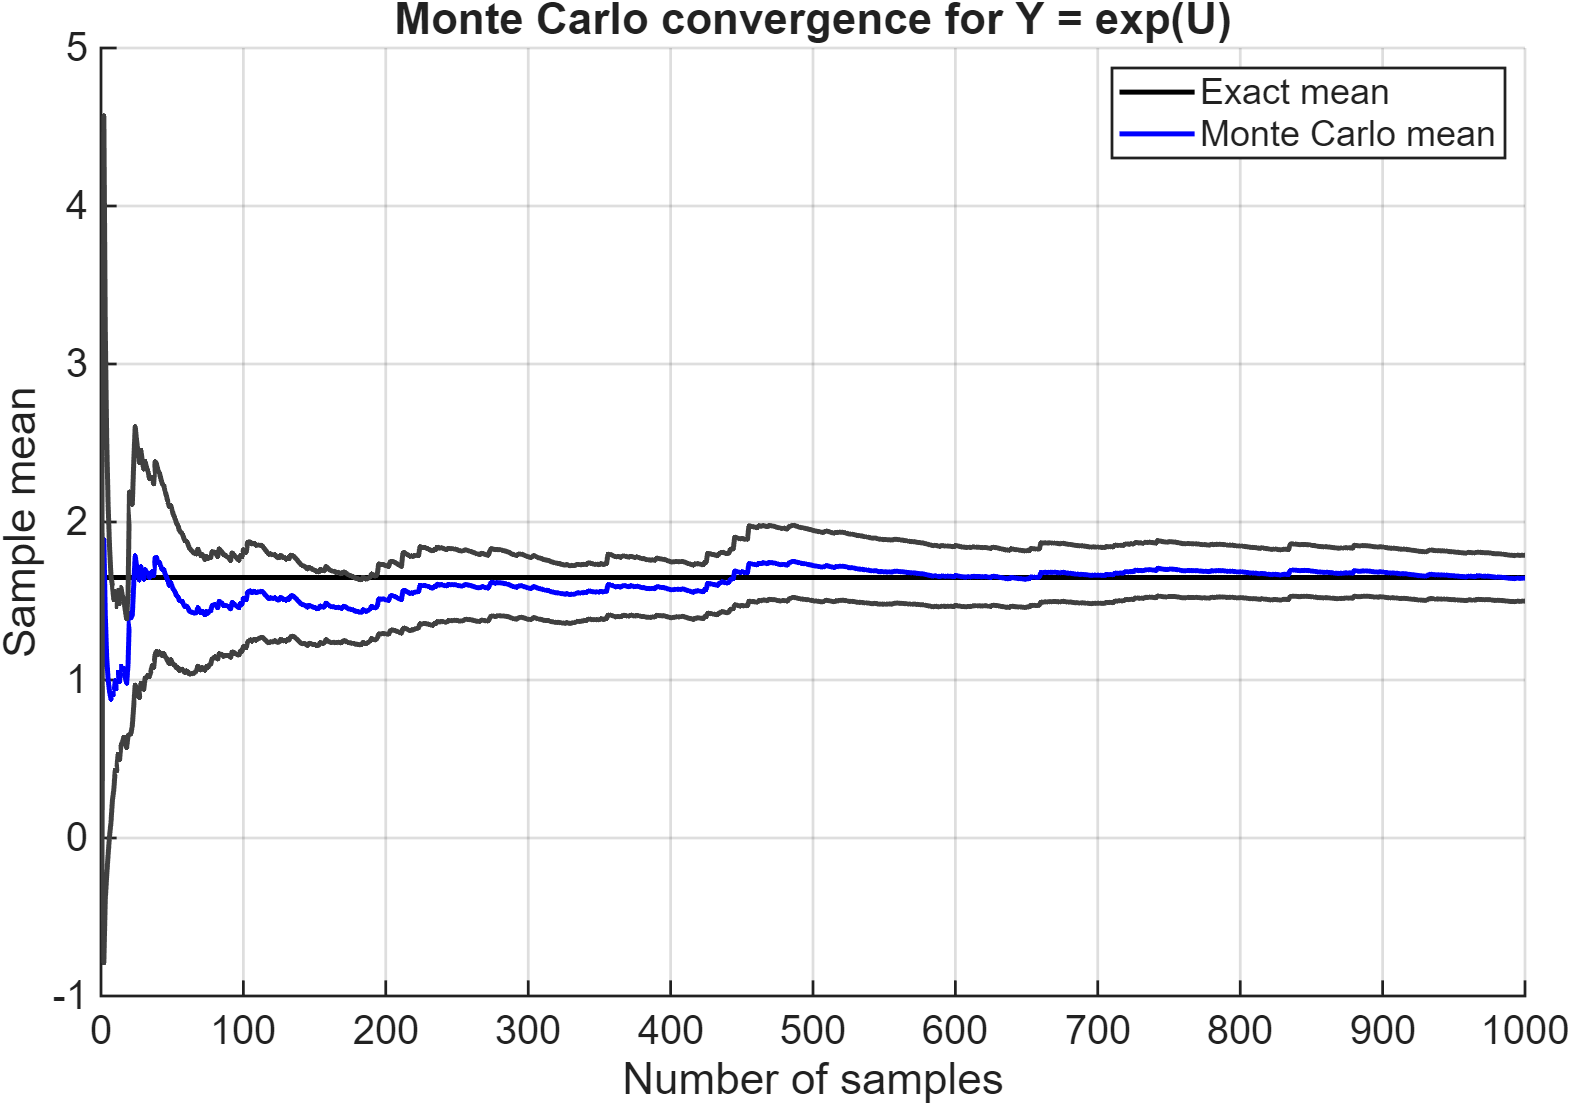
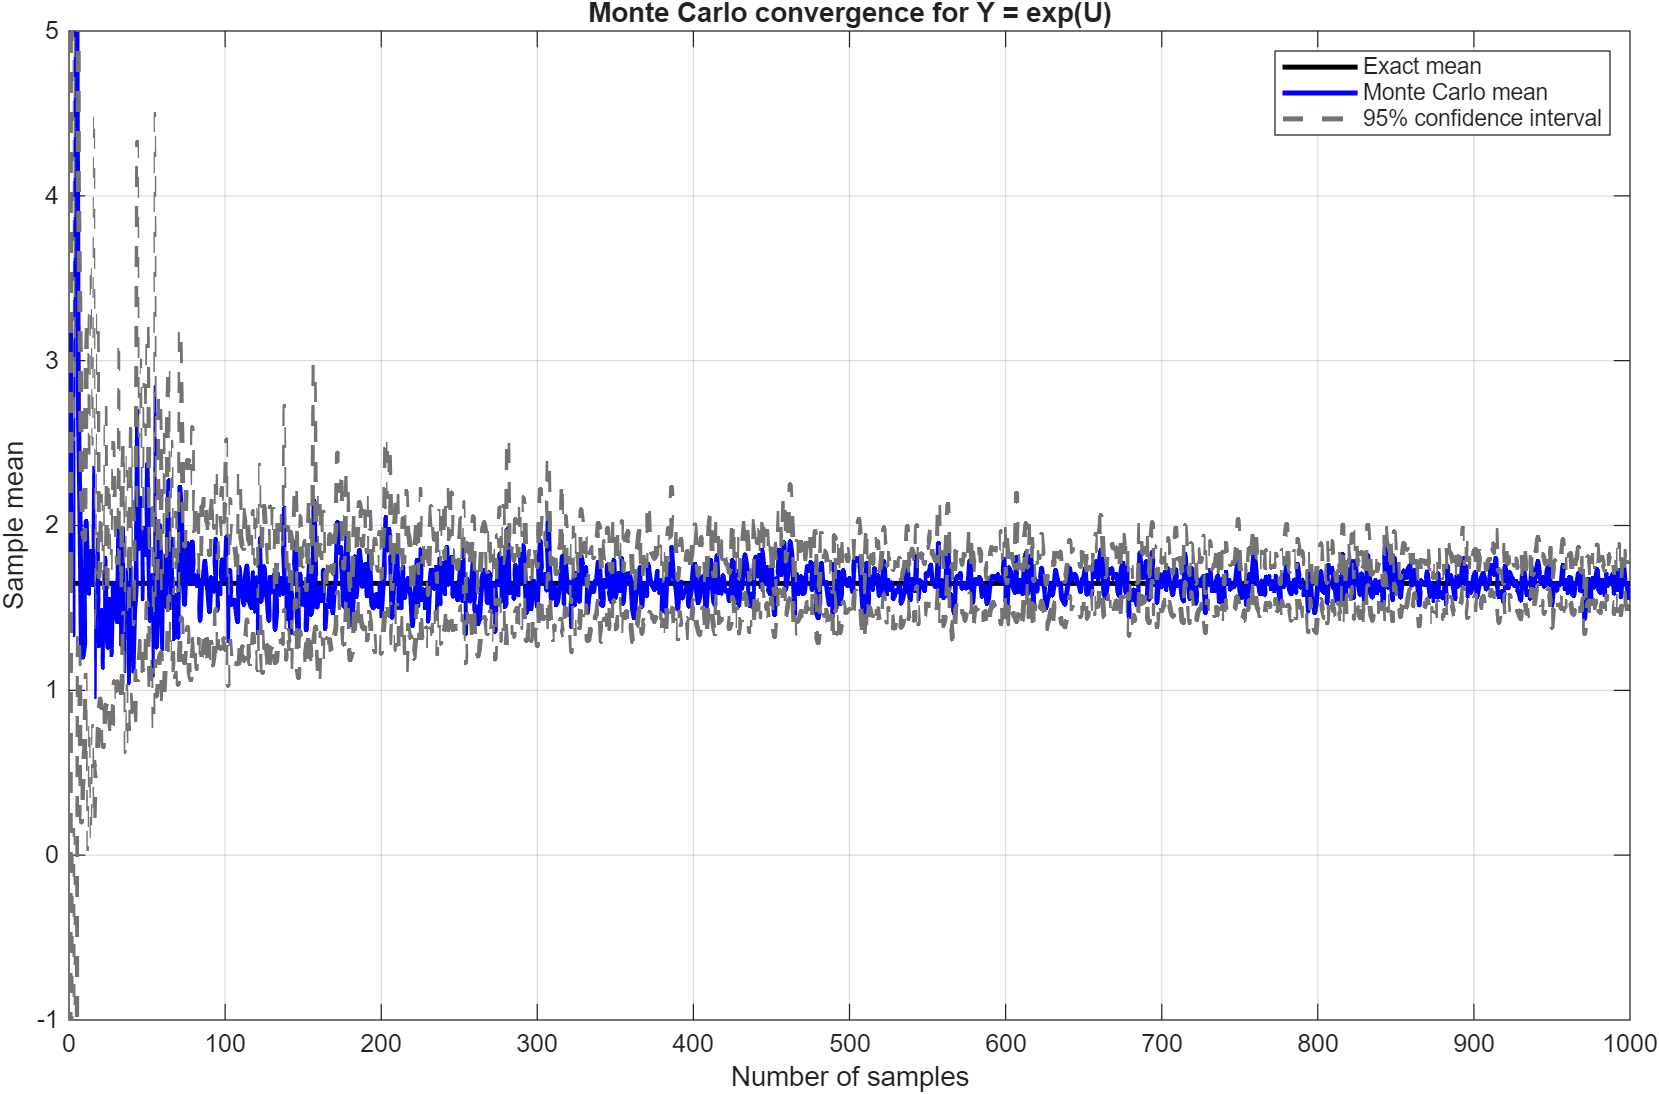
Applied some minor fixes to various scripts

diff --git a/main/main_isogeometricPlateInMembraneActionAnalysis/main_curvedBeamTipShear.m b/main/main_isogeometricPlateInMembraneActionAnalysis/main_curvedBeamTipShear.m
@@ -41,13 +41,13 @@ addpath('../../CAGDKernel/CAGDKernel_basisFunctions',...
         '../../CAGDKernel/CAGDKernel_BSplineSurface/');
     
 % Add all functions related to the Isogeometric Plane Stress formulation
-addpath('../../isogeometricThinStructureAnalysis/solutionMatricesAndVectors/',...
-        '../../isogeometricThinStructureAnalysis/loads/',...
-        '../../isogeometricThinStructureAnalysis/solvers/',...
-        '../../isogeometricThinStructureAnalysis/graphicsSinglePatch/',...
-        '../../isogeometricThinStructureAnalysis/postprocessing/',...
-        '../../isogeometricThinStructureAnalysis/auxiliary/',...
-        '../../isogeometricThinStructureAnalysis/errorComputation/');
+addpath('../../isogeometricPlateInMembraneActionAnalysis/stiffnessMatrices/',...
+        '../../isogeometricPlateInMembraneActionAnalysis/loads/',...
+        '../../isogeometricPlateInMembraneActionAnalysis/solvers/',...
+        '../../isogeometricPlateInMembraneActionAnalysis/graphicsSinglePatch/',...
+        '../../isogeometricPlateInMembraneActionAnalysis/postprocessing/',...
+        '../../isogeometricPlateInMembraneActionAnalysis/auxiliary/',...
+        '../../isogeometricPlateInMembraneActionAnalysis/errorComputation/');
     
 %% NURBS parameters
 

diff --git a/isogeometricThinStructureAnalysis/graphicsSinglePatch/plot_postprocCurrentConfigurationIGAThinStructure.m b/isogeometricThinStructureAnalysis/graphicsSinglePatch/plot_postprocCurrentConfigurationIGAThinStructure.m
@@ -60,13 +60,7 @@ prestress = 'undefined';
 compPrestress = 'undefined';
 
 % Compute the control point coordinates for the deformed configuration
-if isfield(graph, 'deformationScale')
-    deformationScale = graph.deformationScale;
-else
-    deformationScale = 1;
-end
-CPd = computeDisplacedControlPointsForIGAKirchhoffLoveShell ...
-    (CP, deformationScale*dHat);
+CPd = computeDisplacedControlPointsForIGAKirchhoffLoveShell(CP,dHat);
 
 %% 1. Create the arrays containing the Cartesian coordinates of the B-Spline surface grid points, the supports and the arrow vectors
 if strcmp(graph.postprocConfig,'reference')||strcmp(graph.postprocConfig,'referenceCurrent')

diff --git a/main/main_FEMComputationalFluidDynamicsAnalysis/main_transientIncompressibleNavierStokesFlow.m b/main/main_FEMComputationalFluidDynamicsAnalysis/main_transientIncompressibleNavierStokesFlow.m
@@ -62,7 +62,7 @@ pathToCase = '../../inputGiD/FEMComputationalFluidDynamicsAnalysis/';
 % caseName = 'LShapedChannel';
 % caseName = 'channelFlow';
 % caseName = 'flowAroundSquareObstacle';
-% caseName = 'flowAroundCylinderAdaptive'; % best case I have
+caseName = 'flowAroundCylinderAdaptive'; % best case I have
 % caseName = 'flowAroundCylinderAdaptiveFine';
 % caseName = 'BenchmarkHigStrRefined';
 % caseName = 'flowAroundCylinderAdaptiveALE';
@@ -76,8 +76,8 @@ pathToCase = '../../inputGiD/FEMComputationalFluidDynamicsAnalysis/';
 % caseName = 'cane_logo';
 
 % Burn-in CFD simulation for the turek FSI benchmark
-pathToCase = '../../inputGiD/FEMComputationalFluidStructureInteraction/';
-caseName = 'turek_fsi';
+% pathToCase = '../../inputGiD/FEMComputationalFluidStructureInteraction/';
+% caseName = 'turek_fsi';
 
 % Parse the data
 [fldMsh, homDOFs, inhomDOFs, valuesInhomDOFs, propALE, propNBC, ...

diff --git a/main/main_FEMContactMechanicsAnalysis/main_FEMContactLinearPlateInMembraneAction.m b/main/main_FEMContactMechanicsAnalysis/main_FEMContactLinearPlateInMembraneAction.m
@@ -55,8 +55,8 @@ addpath('../../FEMContactMechanicsAnalysis/graphics/',...
 % Define the path to the case
 pathToCase = '../../inputGiD/FEMContactLinearPlateInMembraneAction/';
 % caseName = 'bridge';
-caseName = 'cantilever_beam';
-% caseName = 'wedge';
+% caseName = 'cantilever_beam';
+caseName = 'wedge';
 % caseName = 'hertz';
 
 % Parse the data from the GiD input file
@@ -65,7 +65,6 @@ caseName = 'cantilever_beam';
     propContact] = ...
     parse_StructuralModelFromGid...
     (pathToCase, caseName, 'outputEnabled');
-% parameters.nue = 0.5;
 
 %% UI
 

diff --git a/main/main_isogeometricKirchhoffLoveShellAnalysis/main_scordelisLoRoof.m b/main/main_isogeometricKirchhoffLoveShellAnalysis/main_scordelisLoRoof.m
@@ -134,7 +134,7 @@ graph.index = 1;
 % On the postprocessing:
 % .postprocConfig : 'reference','current','referenceCurrent'
 graph.postprocConfig = 'referenceCurrent';
-graph.deformationScale = 25;
+deformationScale = 25;
 
 % Plot shell resultants
 % .resultant: 'displacement','strain','curvature','force','moment','shearForce'
@@ -264,7 +264,8 @@ plot_IGANonlinear = 'undefined';
 graph.index = plot_postprocIGAKirchhoffLoveShellLinear...
     (BSplinePatch,dHatLinear,graph,'outputEnabled');
 title('Linear analysis');
-graph.index = plot_postprocIGAKirchhoffLoveShellNLinear(BSplinePatch,dHatNLinear,graph,'outputEnabled');
+graph.index = plot_postprocIGAKirchhoffLoveShellNLinear...
+    (BSplinePatch,deformationScale*dHatNLinear,graph,'outputEnabled');
 title('n^1, geometrically nonlinear');
 
 % % Compute the displacement at the middle of the back curved edge:

diff --git a/main/main_FEMPlateInMembraneActionAnalysis/main_convergenceStudyInfinitePlateWithHole.m b/main/main_FEMPlateInMembraneActionAnalysis/main_convergenceStudyInfinitePlateWithHole.m
@@ -226,6 +226,8 @@ for iRefStep = 1:noRef
         intError, 'outputEnabled');
 end
 
+%% Postprocessing
+
 % Plot the von Mises stress field on the deformed configuration for the
 % last refinement mesh.
 figure(graph.index);
@@ -275,7 +277,7 @@ ylabel('y');
 hold off;
 graph.index = graph.index + 1;
 
-%% Plot the corresponding convergence graphs
+%% Convergence graphs
 
 % Plot the relative error of the stresses in the L2-norm against the
 % minimum element edge size

diff --git a/isogeometricThinStructureAnalysis/solutionMatricesAndVectors/computeStiffMtxAndLoadVctIGAKirchhoffLoveShellLinear.m b/isogeometricThinStructureAnalysis/solutionMatricesAndVectors/computeStiffMtxAndLoadVctIGAKirchhoffLoveShellLinear.m
@@ -278,9 +278,6 @@ for j = q + 1:numKnots_eta - q - 1
                     KeOnGP = computeElStiffMtxKirchhoffLoveShellLinear ...
                         (p, q, dR, [dG1(:, 1) dG2(:, 1)], [dG1(:, 2) dG2(:, 2) ...
                         dG1(:, 3)], G3Tilde, Dm, Db);
-%                     KeOnGP = computeElStiffMtxKirchhoffLoveShellAndreasLinear ...
-%                         (p, q, dR, [dG1(:, 1) dG2(:, 1)], [dG1(:, 2) dG2(:, 2) ...
-%                         dG1(:, 3)], G3Tilde, Dm, Db);
                     
                     %% 3iv.7 Compute the element area on the Gauss Point and add the contribution
                     elementAreaOnGP = dA*detJxiu*xiGW(iGP_xi)*etaGW(iGP_eta);

diff --git a/isogeometricThinStructureAnalysis/solutionMatricesAndVectors/computeTangentStiffMtxIGAKirchhoffLoveShellNLinear.m b/isogeometricThinStructureAnalysis/solutionMatricesAndVectors/computeTangentStiffMtxIGAKirchhoffLoveShellNLinear.m
@@ -21,7 +21,7 @@ function [tanStiffMtx, resVct, BSplinePatch, propCoupling, minElArea] = ...
 %                         and residual load vector (dummy variable for this 
 %                         function)
 %            tanMtxLoad : Tangent stiffness matrix resulting from the
-%                         application of followe loads
+%                         application of follower loads
 %                  dHat : The displacement field of the previous iteration
 %                         step (dummy variable for this function)
 %             dHatSaved : The displacement field of the previous time step

diff --git a/equationSystemSolvers/solve_IGALinearSystem.m b/equationSystemSolvers/solve_IGALinearSystem.m
@@ -282,7 +282,6 @@ noPatch = 'undefined';
 noTimeStep = 'undefined';
 iNLinearIter = 'undefined';
 noWeakDBCCnd = 'undefined';
-isReferenceUpdated = 'undefined';
 isConverged = true;
 
 % Get the number of patches